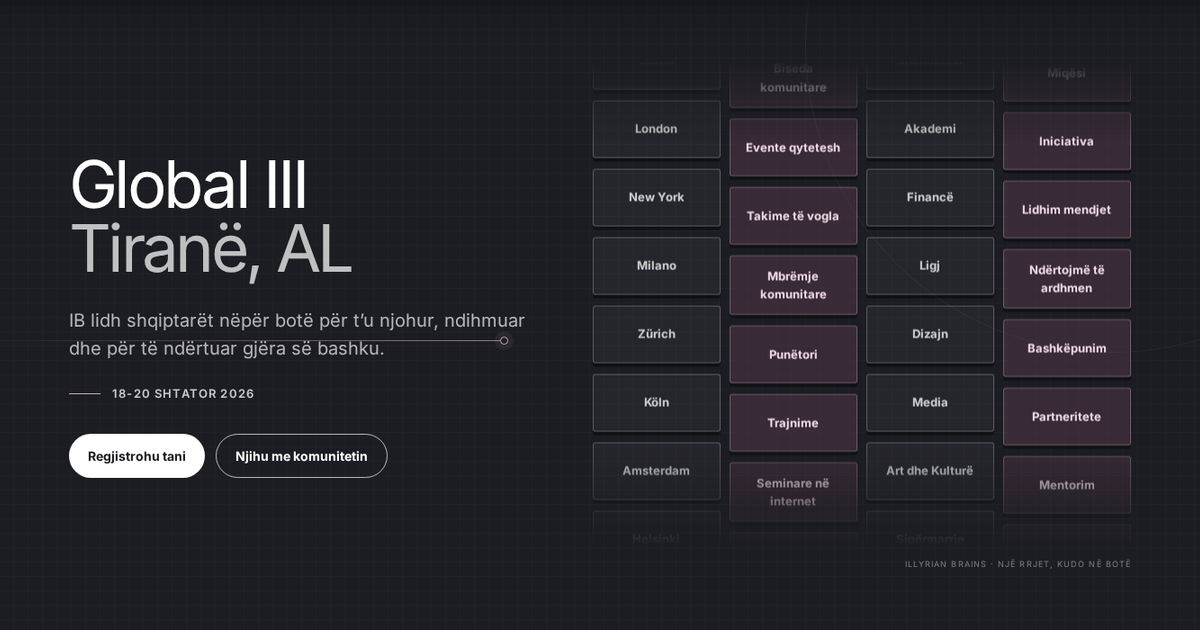
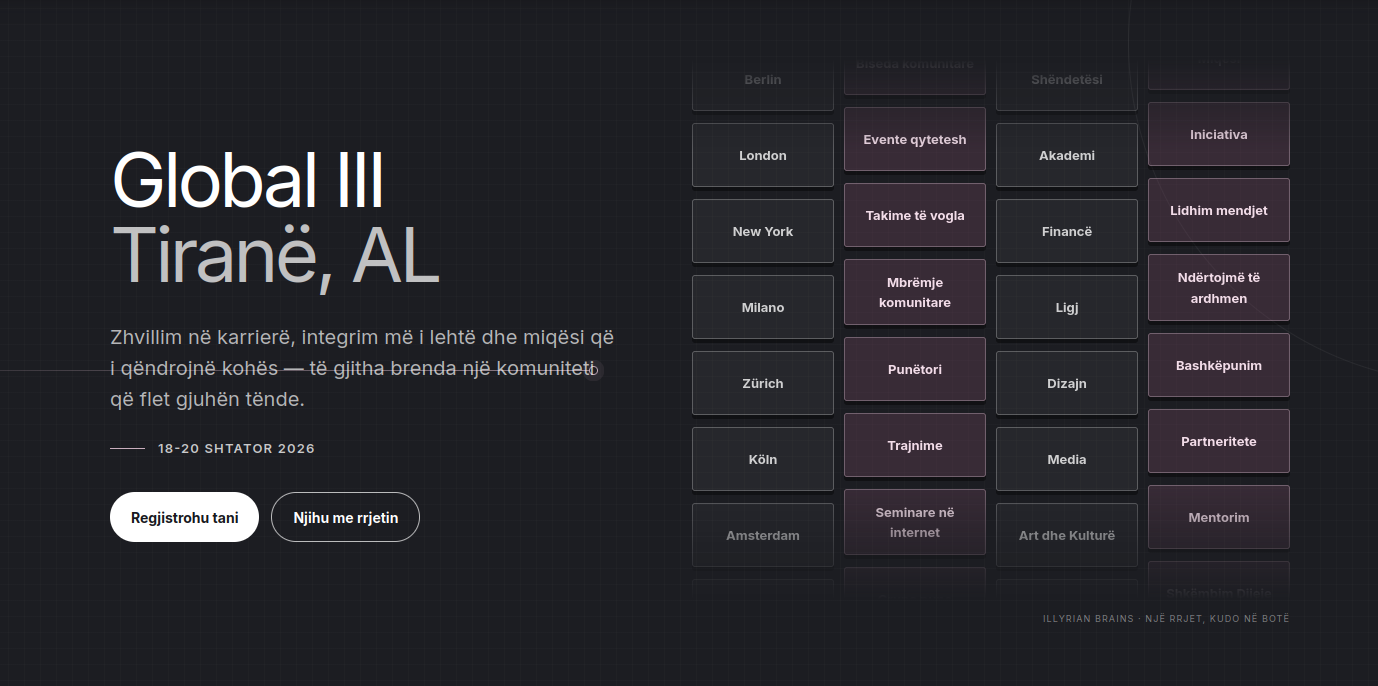
Team-building added

diff --git a/src/styles/global.css b/src/styles/global.css
@@ -171,6 +171,23 @@ img { display: block; max-width: 100%; }
 
 .section { padding: 96px 0; position: relative; }
 .section.compact { padding: 0 0 70px; margin-top: -1px; }
+
+/* Let each homepage chapter finish with a soft curve into the next one. */
+.landing-page > section {
+  position: relative;
+  overflow: hidden;
+  margin-bottom: -24px;
+  border-radius: 0 0 30px 30px;
+}
+.landing-page > section:nth-of-type(1) { z-index: 8; }
+.landing-page > section:nth-of-type(2) { z-index: 7; }
+.landing-page > section:nth-of-type(3) { z-index: 6; }
+.landing-page > section:nth-of-type(4) { z-index: 5; }
+.landing-page > section:nth-of-type(5) { z-index: 4; }
+.landing-page > section:nth-of-type(6) { z-index: 3; }
+.landing-page > section:nth-of-type(7) { z-index: 2; }
+.landing-page > section:nth-of-type(8) { z-index: 1; }
+.landing-page > section:last-of-type { margin-bottom: 0; }
 .alt { background: var(--soft); }
 .panel { border: 1px solid var(--line); border-radius: 18px; padding: 34px; background: var(--paper); box-shadow: 0 8px 28px rgba(0,0,0,.035); }
 .section-title { max-width: 700px; }
@@ -196,7 +213,7 @@ img { display: block; max-width: 100%; }
 .organizer-callout i { grid-column: 2; grid-row: 1 / 3; align-self: center; margin-left: 14px; font-size: 17px; font-style: normal; }
 .proposal-callout { min-width: 225px; }
 .day-content { position: relative; }
-.event-list-card { display: grid; grid-template-columns: minmax(0, 1fr) minmax(280px, 36%); height: 400px; overflow: hidden; border: 1px solid rgba(79,128,100,.42); border-radius: 12px; background: rgba(249,253,250,.82); box-shadow: inset 5px 0 #4f8064; }
+.event-list-card { display: grid; grid-template-columns: minmax(0, 1fr) minmax(280px, 36%); height: 400px; overflow: hidden; border: 1px solid rgba(79,128,100,.42); border-radius: 12px; background: rgba(249,253,250,.42); backdrop-filter: blur(10px); -webkit-backdrop-filter: blur(10px); box-shadow: inset 5px 0 #4f8064; }
 .event-list-copy { display: flex; flex-direction: column; justify-content: center; padding: 34px; }
 .event-list-copy h3 { margin: 22px 0 8px; font-size: 28px; line-height: 1.05; }
 .event-list-copy p { max-width: 570px; margin: 0; color: var(--muted); font-size: 14px; }
@@ -231,14 +248,14 @@ img { display: block; max-width: 100%; }
   .stacked-cards .card-image-placeholder { filter: saturate(.72); transition: filter .25s ease, transform .3s ease; }
   .stacked-cards > article:hover .card-image-placeholder, .stacked-cards > article:focus-visible .card-image-placeholder { filter: saturate(1); transform: scale(1.015); }
 }
-.event-card { height: 400px; min-height: 0; display: grid; grid-template-columns: minmax(0, 1fr) minmax(280px, 36%); overflow: hidden; padding: 0; border-radius: 12px; background: rgba(249,253,250,.82); border: 1px solid rgba(79,128,100,.42); box-shadow: inset 5px 0 #4f8064; transition: transform .25s ease, box-shadow .25s ease; }
+.event-card { height: 400px; min-height: 0; display: grid; grid-template-columns: minmax(0, 1fr) minmax(280px, 36%); overflow: hidden; padding: 0; border-radius: 12px; background: rgba(249,253,250,.42); backdrop-filter: blur(10px); -webkit-backdrop-filter: blur(10px); border: 1px solid rgba(79,128,100,.42); box-shadow: inset 5px 0 #4f8064; transition: transform .25s ease, box-shadow .25s ease; }
 .event-card-copy { display: flex; flex-direction: column; justify-content: center; min-width: 0; padding: 32px 34px; }
 .card-image-placeholder { position: relative; overflow: hidden; width: 100%; height: 100%; min-height: 245px; aspect-ratio: auto; flex: 0 0 auto; margin: 0; border-radius: 0; display: grid; place-items: center; color: rgba(23,24,29,.38); background: linear-gradient(145deg, rgba(116,71,97,.18), rgba(255,255,255,.58)); opacity: 1; }
 .card-image-placeholder::before, .card-image-placeholder::after { content: ''; position: absolute; border: 1px solid currentColor; border-radius: 50%; opacity: .18; }
 .card-image-placeholder::before { width: 130px; height: 130px; right: -35px; top: -60px; }
 .card-image-placeholder::after { width: 75px; height: 75px; left: -20px; bottom: -35px; }
 .card-image-placeholder span { display: block; color: inherit; font-size: 9px; font-weight: 700; text-transform: uppercase; letter-spacing: .16em; }
-.event-card:nth-child(even), .event-card:nth-child(3n) { background: rgba(242,249,245,.9); }
+.event-card:nth-child(even), .event-card:nth-child(3n) { background: rgba(242,249,245,.48); }
 .event-list-card:hover, .event-card:hover, .professional-card:hover { transform: translateY(-3px); box-shadow: inset 5px 0 #4f8064, 0 16px 36px rgba(23,24,29,.08); }
 .organizers-event { position: relative; border-color: rgba(196,35,45,.48); background: #fff8f8 !important; box-shadow: inset 5px 0 #c4232d; }
 .organizers-event::before { content: ''; position: absolute; z-index: 2; inset: -1px; border: 1px solid rgba(196,35,45,.2); border-radius: inherit; pointer-events: none; }
@@ -273,9 +290,32 @@ img { display: block; max-width: 100%; }
 .featured-event > span { color: var(--accent); }
 .featured-event > small, .featured-event p { color: var(--muted); }
 .featured-event ul { border-color: rgba(23,24,29,.12); }
-.professional-card { height: 400px; min-height: 0; display: grid; grid-template-columns: minmax(0, 1fr) minmax(280px, 36%); overflow: hidden; padding: 0; border-radius: 12px; color: var(--ink); background: rgba(249,253,250,.86); border: 1px solid rgba(79,128,100,.42); box-shadow: inset 5px 0 #4f8064; transition: transform .25s ease, box-shadow .25s ease; }
-.professional-card:nth-child(even), .professional-card:nth-child(3n) { background: rgba(242,249,245,.92); border-color: rgba(79,128,100,.42); }
+.professional-card { height: 400px; min-height: 0; display: grid; grid-template-columns: minmax(0, 1fr) minmax(280px, 36%); overflow: hidden; padding: 0; border-radius: 12px; color: var(--ink); background: rgba(249,253,250,.42); backdrop-filter: blur(10px); -webkit-backdrop-filter: blur(10px); border: 1px solid rgba(79,128,100,.42); box-shadow: inset 5px 0 #4f8064; transition: transform .25s ease, box-shadow .25s ease; }
+.professional-card:nth-child(even), .professional-card:nth-child(3n) { background: rgba(242,249,245,.48); border-color: rgba(79,128,100,.42); }
 .professional-card > small, .professional-card p { color: var(--muted); }
+
+.session-list { display: flex; flex-direction: column; gap: 12px; }
+.session-item { border: 1px solid rgba(79,128,100,.32); border-radius: 12px; background: rgba(249,253,250,.42); backdrop-filter: blur(10px); -webkit-backdrop-filter: blur(10px); box-shadow: inset 5px 0 #4f8064; overflow: hidden; transition: box-shadow .2s ease; }
+.session-item:nth-child(even) { background: rgba(242,249,245,.48); }
+.session-item summary { display: grid; grid-template-columns: 40px minmax(0, 1fr) 32px; align-items: center; gap: 20px; padding: 24px 28px; cursor: pointer; list-style: none; }
+.session-item summary::-webkit-details-marker, .session-item summary::marker { display: none; content: ''; }
+.session-item summary:focus-visible { outline: 2px solid #4f8064; outline-offset: -2px; }
+.session-index { color: #4f8064; font-size: 13px; font-weight: 800; letter-spacing: .04em; }
+.session-summary-text { min-width: 0; }
+.session-summary-text h3 { margin: 8px 0 0; font-size: 22px; line-height: 1.1; letter-spacing: -.02em; }
+.session-toggle { display: grid; place-items: center; width: 32px; height: 32px; border: 1px solid rgba(79,128,100,.35); border-radius: 50%; color: #4f8064; transition: transform .25s ease, background-color .2s ease; }
+.session-toggle svg { width: 15px; height: 15px; fill: none; stroke: currentColor; stroke-width: 2.2; stroke-linecap: round; stroke-linejoin: round; }
+.session-item[open] > summary { border-bottom: 1px solid rgba(79,128,100,.22); }
+.session-item[open] .session-toggle { background: #4f8064; color: #fff; transform: rotate(180deg); }
+.session-body { display: grid; grid-template-columns: minmax(0, 1fr) 220px; gap: 28px; padding: 6px 28px 28px 88px; }
+.session-body-copy p { margin: 0; color: var(--muted); font-size: 14px; line-height: 1.5; }
+.session-speaker { display: flex; align-items: center; gap: 10px; margin-top: 20px; padding-top: 16px; border-top: 1px solid rgba(79,128,100,.2); }
+.session-speaker-avatar { display: grid; place-items: center; width: 30px; height: 30px; border-radius: 50%; color: #fff; background: #4f8064; font-size: 10px; font-weight: 800; flex: 0 0 auto; }
+.session-speaker-name { color: var(--ink); font-size: 13px; }
+.session-speaker-name strong { font-weight: 700; }
+.session-speaker-linkedin { display: grid; place-items: center; width: 22px; height: 22px; margin-left: auto; border-radius: 4px; color: #fff; background: #556d7d; font-family: Arial, sans-serif; font-size: 11px; font-weight: 800; flex: 0 0 auto; }
+.session-body-image { min-height: 150px; border-radius: 9px; overflow: hidden; }
+.session-body-image img { width: 100%; height: 100%; object-fit: cover; }
 .news-grid { display: grid; grid-template-columns: repeat(3,1fr); gap: 0; margin-top: 30px; border-top: 1px solid var(--line); }
 .news-item { padding: 24px 24px 8px 0; }
 .news-item + .news-item { border-left: 1px solid var(--line); padding-left: 24px; }
@@ -388,12 +428,25 @@ img { display: block; max-width: 100%; }
 stripe-buy-button { display: block; }
 .checkout-note { display: flex; align-items: flex-start; gap: 9px; max-width: 330px; margin: 13px auto 0; color: var(--muted); font-size: 10px; line-height: 1.5; }
 .checkout-note svg { flex: 0 0 16px; width: 16px; margin-top: 1px; fill: none; stroke: var(--accent); stroke-width: 1.6; stroke-linecap: round; stroke-linejoin: round; }
-.partners-section { padding-block: 64px; border-top: 1px solid var(--line); background-color: #f8f8f8; background-image: linear-gradient(rgba(23,24,29,.018) 1px, transparent 1px), linear-gradient(90deg, rgba(23,24,29,.018) 1px, transparent 1px); background-size: 16px 16px; }
-.partner-invite-card { display: grid; grid-template-columns: .78fr 1.22fr; align-items: center; gap: clamp(40px, 7vw, 90px); padding: 34px 38px; border: 1px solid rgba(116,71,97,.18); border-radius: 12px; background: rgba(255,255,255,.72); box-shadow: inset 4px 0 var(--accent); }
-.partner-invite-card .eyebrow { margin-bottom: 9px; }
-.partner-invite-card h2 { margin: 0; font-size: clamp(34px, 4vw, 48px); font-weight: 400; line-height: 1; letter-spacing: -.04em; }
-.partner-invite-card > p { max-width: 630px; margin: 0; color: var(--muted); font-size: 15px; line-height: 1.65; }
-.partner-invite-card > p span { color: var(--accent-dark); font-weight: 700; }
+.partners-section { padding-block: 90px 76px; border-top: 1px solid rgba(116,71,97,.14); background-color: #f8f6f7; background-image: linear-gradient(rgba(116,71,97,.025) 1px, transparent 1px), linear-gradient(90deg, rgba(116,71,97,.025) 1px, transparent 1px); background-size: 16px 16px; }
+.partners-inner { position: relative; }
+.partners-heading { display: grid; grid-template-columns: .9fr 1.1fr; gap: clamp(50px, 9vw, 120px); align-items: end; padding-bottom: 52px; border-bottom: 1px solid rgba(23,24,29,.16); }
+.partners-heading .eyebrow { margin-bottom: 14px; }
+.partners-heading h2 { margin: 0; font-size: clamp(44px, 5vw, 66px); font-weight: 400; line-height: .95; letter-spacing: -.045em; }
+.partners-intro { max-width: 590px; justify-self: end; }
+.partners-intro p { margin: 0; color: var(--muted); font-size: 16px; line-height: 1.7; }
+.partner-button { display: inline-flex; align-items: center; justify-content: space-between; gap: 28px; margin-top: 26px; padding: 13px 17px; border-radius: 7px; color: #fff; background: var(--accent); font-size: 13px; font-weight: 700; transition: transform .2s ease, background-color .2s ease; }
+.partner-button:hover { transform: translateY(-2px); background: var(--accent-dark); }
+.partner-button span { font-size: 17px; font-weight: 400; }
+.partner-benefits { display: grid; grid-template-columns: repeat(3, 1fr); }
+.partner-benefits article { position: relative; min-height: 220px; padding: 30px 34px 28px 0; transition: background-color .2s ease, transform .2s ease; }
+.partner-benefits article + article { padding-left: 34px; border-left: 1px solid rgba(23,24,29,.13); }
+.partner-benefits article:hover { z-index: 1; background: rgba(255,255,255,.5); transform: translateY(-3px); }
+.partner-benefits article > span { display: inline-grid; place-items: center; width: 28px; height: 28px; border: 1px solid rgba(116,71,97,.28); border-radius: 50%; color: var(--accent); font-size: 9px; font-weight: 800; letter-spacing: .06em; }
+.partner-benefits h3 { margin: 48px 0 8px; font-size: 25px; font-weight: 400; }
+.partner-benefits p { max-width: 300px; margin: 0; color: var(--muted); font-size: 13px; line-height: 1.6; }
+.partners-note { display: flex; align-items: center; gap: 9px; margin: 0; padding-top: 18px; border-top: 1px solid rgba(23,24,29,.16); color: var(--muted); font-size: 10px; font-weight: 700; text-transform: uppercase; letter-spacing: .1em; }
+.partners-note span { width: 6px; height: 6px; border-radius: 50%; background: var(--accent); }
 .light { background: #fff; color: var(--ink); }
 .light:not(:disabled):hover { background: var(--soft); }
 .gallery-section { overflow: hidden; background: var(--night); color: #fff; }
@@ -443,12 +496,6 @@ stripe-buy-button { display: block; }
 .organizers-brief > span { display: block; color: #c9aebd; font-size: 10px; font-weight: 700; text-transform: uppercase; letter-spacing: .14em; }
 .organizers-brief > strong { display: block; margin-top: 6px; font-family: var(--font-display); font-size: 35px; font-weight: 400; }
 .organizers-brief p { max-width: 470px; margin: 15px 0 0; color: rgba(255,255,255,.62); }
-.assembly-network-flow { display: grid; grid-template-columns: 1fr auto 1fr auto 1fr; align-items: center; gap: 9px; margin-top: 30px; }
-.assembly-network-flow > div { min-width: 0; padding: 11px 10px; border: 1px solid rgba(201,174,189,.22); border-radius: 6px; background: rgba(255,255,255,.035); }
-.assembly-network-flow small, .assembly-network-flow b { display: block; }
-.assembly-network-flow small { color: #c9aebd; font-size: 7px; }
-.assembly-network-flow b { overflow: hidden; margin-top: 2px; font-size: 10px; text-overflow: ellipsis; white-space: nowrap; }
-.assembly-network-flow i { color: rgba(255,255,255,.32); font-size: 12px; font-style: normal; }
 .organizer-reference-links { display: flex; flex-wrap: wrap; gap: 18px; margin-top: 19px; }
 .organizer-reference-links a { padding-bottom: 2px; border-bottom: 1px solid rgba(255,255,255,.28); color: rgba(255,255,255,.68); font-size: 10px; font-weight: 700; }
 .organizer-reference-links a:hover { color: #fff; border-color: #fff; }
@@ -469,6 +516,24 @@ stripe-buy-button { display: block; }
 .internal-agenda article > span { color: #aaa; font-size: 9px; }
 .internal-agenda h3 { margin: 0; font-size: 19px; }
 .internal-agenda p { margin: 5px 0 0; color: var(--muted); font-size: 13px; }
+.organizer-exercises { border-top: 1px solid var(--line); background-color: #eee8eb; }
+.exercises-heading { display: grid; grid-template-columns: .85fr 1.15fr; column-gap: clamp(55px, 9vw, 120px); align-items: end; }
+.exercises-heading .eyebrow { grid-column: 1 / -1; }
+.exercises-heading > p:last-child { margin: 0; align-self: end; }
+.exercise-selection-note { display: flex; align-items: center; gap: 14px; margin-top: 38px; padding: 14px 17px; border: 1px solid rgba(116,71,97,.18); border-radius: 9px; background: rgba(255,255,255,.5); }
+.exercise-selection-note span { flex: 0 0 auto; padding: 5px 9px; border-radius: 999px; color: #fff; background: var(--accent); font-size: 9px; font-weight: 800; text-transform: uppercase; letter-spacing: .08em; }
+.exercise-selection-note p { margin: 0; color: var(--muted); font-size: 12px; }
+.exercise-grid { display: grid; grid-template-columns: 1fr 1fr; gap: 14px; margin-top: 18px; }
+.exercise-grid > article { display: flex; flex-direction: column; min-height: 275px; padding: 28px; border: 1px solid rgba(116,71,97,.2); border-radius: 14px; background: rgba(255,255,255,.7); transition: transform .2s ease, box-shadow .2s ease; }
+.exercise-grid > article:hover { transform: translateY(-4px); box-shadow: 0 18px 42px rgba(46,32,40,.08); }
+.exercise-top { display: flex; align-items: center; justify-content: space-between; padding-bottom: 15px; border-bottom: 1px solid rgba(116,71,97,.16); }
+.exercise-top span { color: var(--accent); font-size: 10px; font-weight: 800; letter-spacing: .12em; }
+.exercise-top small { color: var(--muted); font-size: 8px; font-weight: 700; text-transform: uppercase; letter-spacing: .08em; }
+.exercise-label { margin: 24px 0 8px; color: var(--accent); font-size: 9px; font-weight: 800; text-transform: uppercase; letter-spacing: .12em; }
+.exercise-grid h3 { margin: 0; font-size: clamp(25px, 2.4vw, 32px); font-weight: 400; line-height: 1; letter-spacing: -.03em; }
+.exercise-grid ul { margin: 19px 0 0; padding: 0; border-top: 1px solid rgba(116,71,97,.14); list-style: none; }
+.exercise-grid li { position: relative; padding: 9px 0 9px 20px; border-bottom: 1px solid rgba(116,71,97,.14); color: var(--muted); font-size: 12px; line-height: 1.45; }
+.exercise-grid li::before { content: '✓'; position: absolute; left: 0; color: var(--accent); font-size: 10px; font-weight: 800; }
 .city-preparation { border-top: 1px solid var(--line); background-color: #f5f2f4; }
 .city-preparation-layout { display: grid; grid-template-columns: .72fr 1.28fr; gap: clamp(55px, 9vw, 120px); }
 .city-preparation-grid { border-top: 1px solid var(--accent); }
@@ -553,10 +618,13 @@ stripe-buy-button { display: block; }
   .news-item + .news-item { border-left: 0; padding-left: 0; }
   .footer-main { grid-template-columns: 1.4fr 1fr 1fr; gap: 42px 28px; }
   .footer-brand { grid-column: 1 / 4; }
-  .partner-invite-card { grid-template-columns: 1fr; gap: 24px; }
+  .partners-heading { grid-template-columns: 1fr; gap: 28px; }
+  .partners-intro { max-width: 680px; justify-self: start; }
   .saturday-section .day-heading, .sunday-section .day-heading { grid-template-columns: minmax(0, 1fr) auto; }
   .organizer-callout { grid-column: 2; justify-self: start; margin-top: 8px; }
   .organizers-hero-inner, .organizer-layout, .city-preparation-layout, .contributors-layout, .followup-card { grid-template-columns: 1fr; gap: 48px; }
+  .exercises-heading { grid-template-columns: 1fr; gap: 20px; }
+  .exercises-heading .eyebrow { grid-column: 1; }
   .assembly-roles-grid { grid-template-columns: 1fr 1fr; }
   .assembly-roles article:nth-child(3) { border-top: 1px solid rgba(116,71,97,.18); border-left: 0; }
   .assembly-roles article:nth-child(4) { border-top: 1px solid rgba(116,71,97,.18); }
@@ -623,6 +691,11 @@ stripe-buy-button { display: block; }
   .mini-agenda li { min-height: 40px; display: flex; align-items: center; padding: 9px 8px 9px 36px; font-size: 13px; }
   .mini-agenda li + li { border-top: 1px solid rgba(79,128,100,.16); border-left: 0; }
   .mini-agenda li::before { left: 8px; top: 50%; transform: translateY(-50%); font-size: 9px; }
+  .session-item summary { grid-template-columns: 32px minmax(0, 1fr) 28px; gap: 14px; padding: 20px; }
+  .session-index { font-size: 11px; }
+  .session-summary-text h3 { font-size: 19px; }
+  .session-body { grid-template-columns: 1fr; padding: 6px 20px 22px 66px; gap: 18px; }
+  .session-body-image { min-height: 170px; }
   .friday-gallery { grid-template-columns: 1.35fr .65fr; grid-template-rows: 100px 100px; gap: 5px; }
   .day-photo { min-height: 0; }
   .event-card, .professional-card { min-height: 0; padding: 0; }
@@ -663,7 +736,16 @@ stripe-buy-button { display: block; }
   .checkout-divider::after { right: -31px; }
   .checkout-body { padding: 22px 22px 24px; }
   .partners-section { padding-block: 48px; }
-  .partner-invite-card { padding: 28px 24px; }
+  .partners-heading { padding-bottom: 38px; }
+  .partners-heading h2 { font-size: clamp(40px, 12vw, 52px); }
+  .partners-intro p { font-size: 15px; }
+  .partner-button { width: 100%; min-height: 50px; }
+  .partner-benefits { grid-template-columns: 1fr; }
+  .partner-benefits article { min-height: 0; padding: 26px 0; }
+  .partner-benefits article + article { padding-left: 0; border-top: 1px solid rgba(23,24,29,.13); border-left: 0; }
+  .partner-benefits h3 { margin-top: 24px; }
+  .partners-note { align-items: flex-start; line-height: 1.5; }
+  .partners-note span { flex: 0 0 6px; margin-top: 4px; }
   .news-grid, .speaker-grid, .stat-card { grid-template-columns: 1fr; }
   .news-item + .news-item, .stat-card div + div { border-left: 0; border-top: 1px solid var(--line); }
   .program-row { grid-template-columns: 80px 1fr; }
@@ -677,16 +759,17 @@ stripe-buy-button { display: block; }
   .footer-brand { grid-column: 1 / 3; }
   .footer-bottom { align-items: flex-start; flex-direction: column; gap: 7px; }
   .organizers-hero { padding: 75px 0 68px; }
-  .organizers-hero h1 { font-size: 62px; }
+  .organizers-hero h1 { font-size: clamp(48px, 15vw, 62px); overflow-wrap: anywhere; }
   .organizers-brief { padding: 22px 0 0; border-top: 1px solid rgba(201,174,189,.45); border-left: 0; }
-  .assembly-network-flow { gap: 5px; }
-  .assembly-network-flow > div { padding-inline: 7px; }
   .assembly-roles-grid { grid-template-columns: 1fr; }
   .assembly-roles article { min-height: 205px; }
   .assembly-roles article + article { border-top: 1px solid rgba(116,71,97,.18); border-left: 0; }
   .assembly-roles h2 { margin-top: 38px; }
   .internal-agenda article { grid-template-columns: 52px 1fr; gap: 12px; }
   .internal-agenda article > span { display: none; }
+  .exercise-selection-note { align-items: flex-start; margin-top: 28px; }
+  .exercise-grid { grid-template-columns: 1fr; margin-top: 14px; }
+  .exercise-grid > article { min-height: 0; padding: 26px 23px; }
   .proposal-grid { grid-template-columns: 1fr; }
   .proposal-grid article { min-height: 205px; }
   .proposal-grid article + article { border-top: 1px solid rgba(116,71,97,.18); border-left: 0; }

diff --git a/src/data/conference.ts b/src/data/conference.ts
@@ -3,7 +3,7 @@ export const conference = {
   city: 'Tiranë',
   country: 'AL',
   dates: '18-20 Shtator 2026',
-  tagline: 'IB lidh shqiptarët nëpër botë për t’u njohur, ndihmuar dhe për të ndërtuar gjëra së bashku.',
+  tagline: "Zhvillim në karrierë, integrim më i lehtë dhe miqësi që i qëndrojnë kohës — të gjitha brenda një komuniteti që flet gjuhën tënde.",
   description:
     'Tri ditë me ide, bashkëpunim dhe komunitet në rrjetin Illyrian Brains — një mbrëmje mirëseardhjeje, takime mes anëtarëve dhe një konferencë për çdo fushë.',
   registrationUrl: '#register',
@@ -48,8 +48,8 @@ export const speakers = [
 ];
 
 export const workshops = [
-  { time: '10:00–13:00', title: 'Shpjegueshmëria e vendimeve të IA-së', type: 'Teknologji', text: 'Sesioni trajton mënyrën si kuptohen dhe komunikohen vendimet e sistemeve të inteligjencës artificiale.', agenda: ['Hyrje në temë', 'Raste praktike', 'Diskutim në grup'] },
-  { time: '10:00–13:00', title: 'IB Shëndetësi — takim profesional', type: 'Shëndetësi', text: 'Një forum pune ku profesionistët shqiptarë të shëndetësisë ndajnë përvoja, sfida dhe mundësi bashkëpunimi.', agenda: ['Prezantimi i pjesëmarrësve', 'Sfidat e përbashkëta', 'Hapat e bashkëpunimit'] }
+  { time: '10:00–13:00', title: 'Shpjegueshmëria e vendimeve të IA-së', type: 'Teknologji', text: 'Sesioni trajton mënyrën si kuptohen dhe komunikohen vendimet e sistemeve të inteligjencës artificiale.', agenda: ['Hyrje në temë', 'Raste praktike', 'Diskutim në grup'], speaker: { name: 'Për t’u konfirmuar', initials: '?', linkedin: '' } },
+  { time: '10:00–13:00', title: 'IB Shëndetësi — takim profesional', type: 'Shëndetësi', text: 'Një forum pune ku profesionistët shqiptarë të shëndetësisë ndajnë përvoja, sfida dhe mundësi bashkëpunimi.', agenda: ['Prezantimi i pjesëmarrësve', 'Sfidat e përbashkëta', 'Hapat e bashkëpunimit'], speaker: { name: 'Për t’u konfirmuar', initials: '?', linkedin: '' } }
 ];
 
 export const attendees: { name: string; profession: string; city?: string; example?: boolean }[] = [
